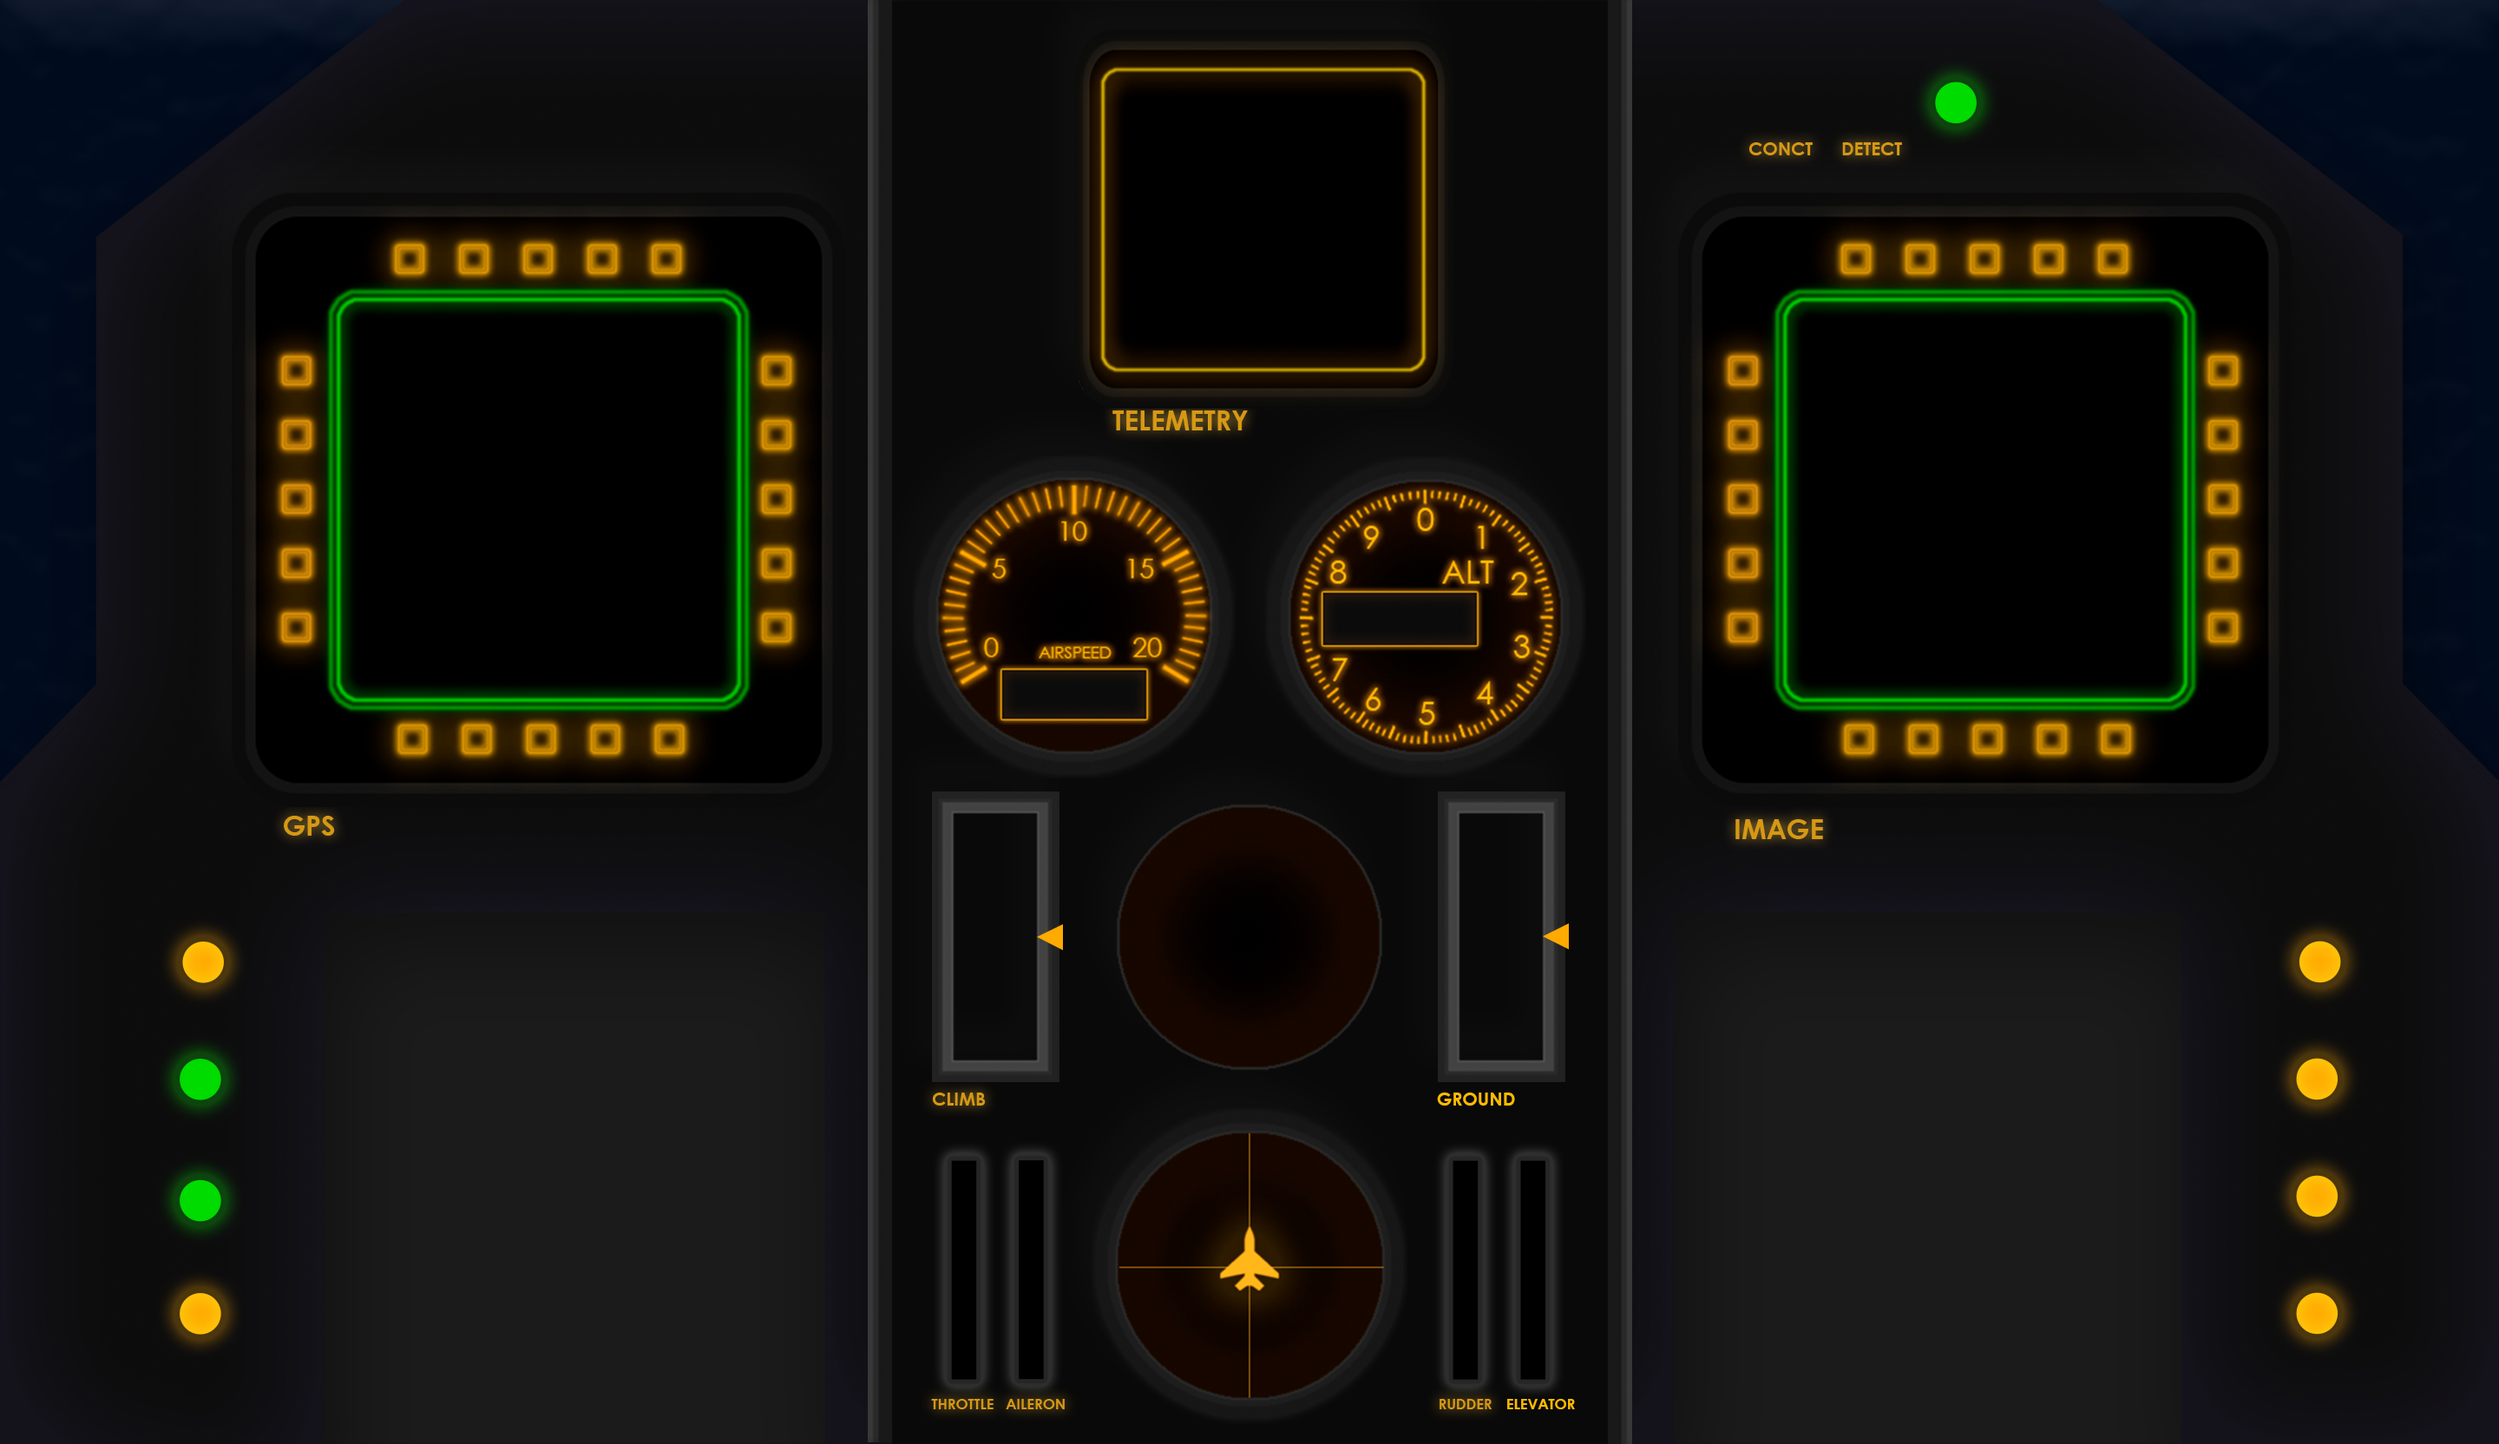
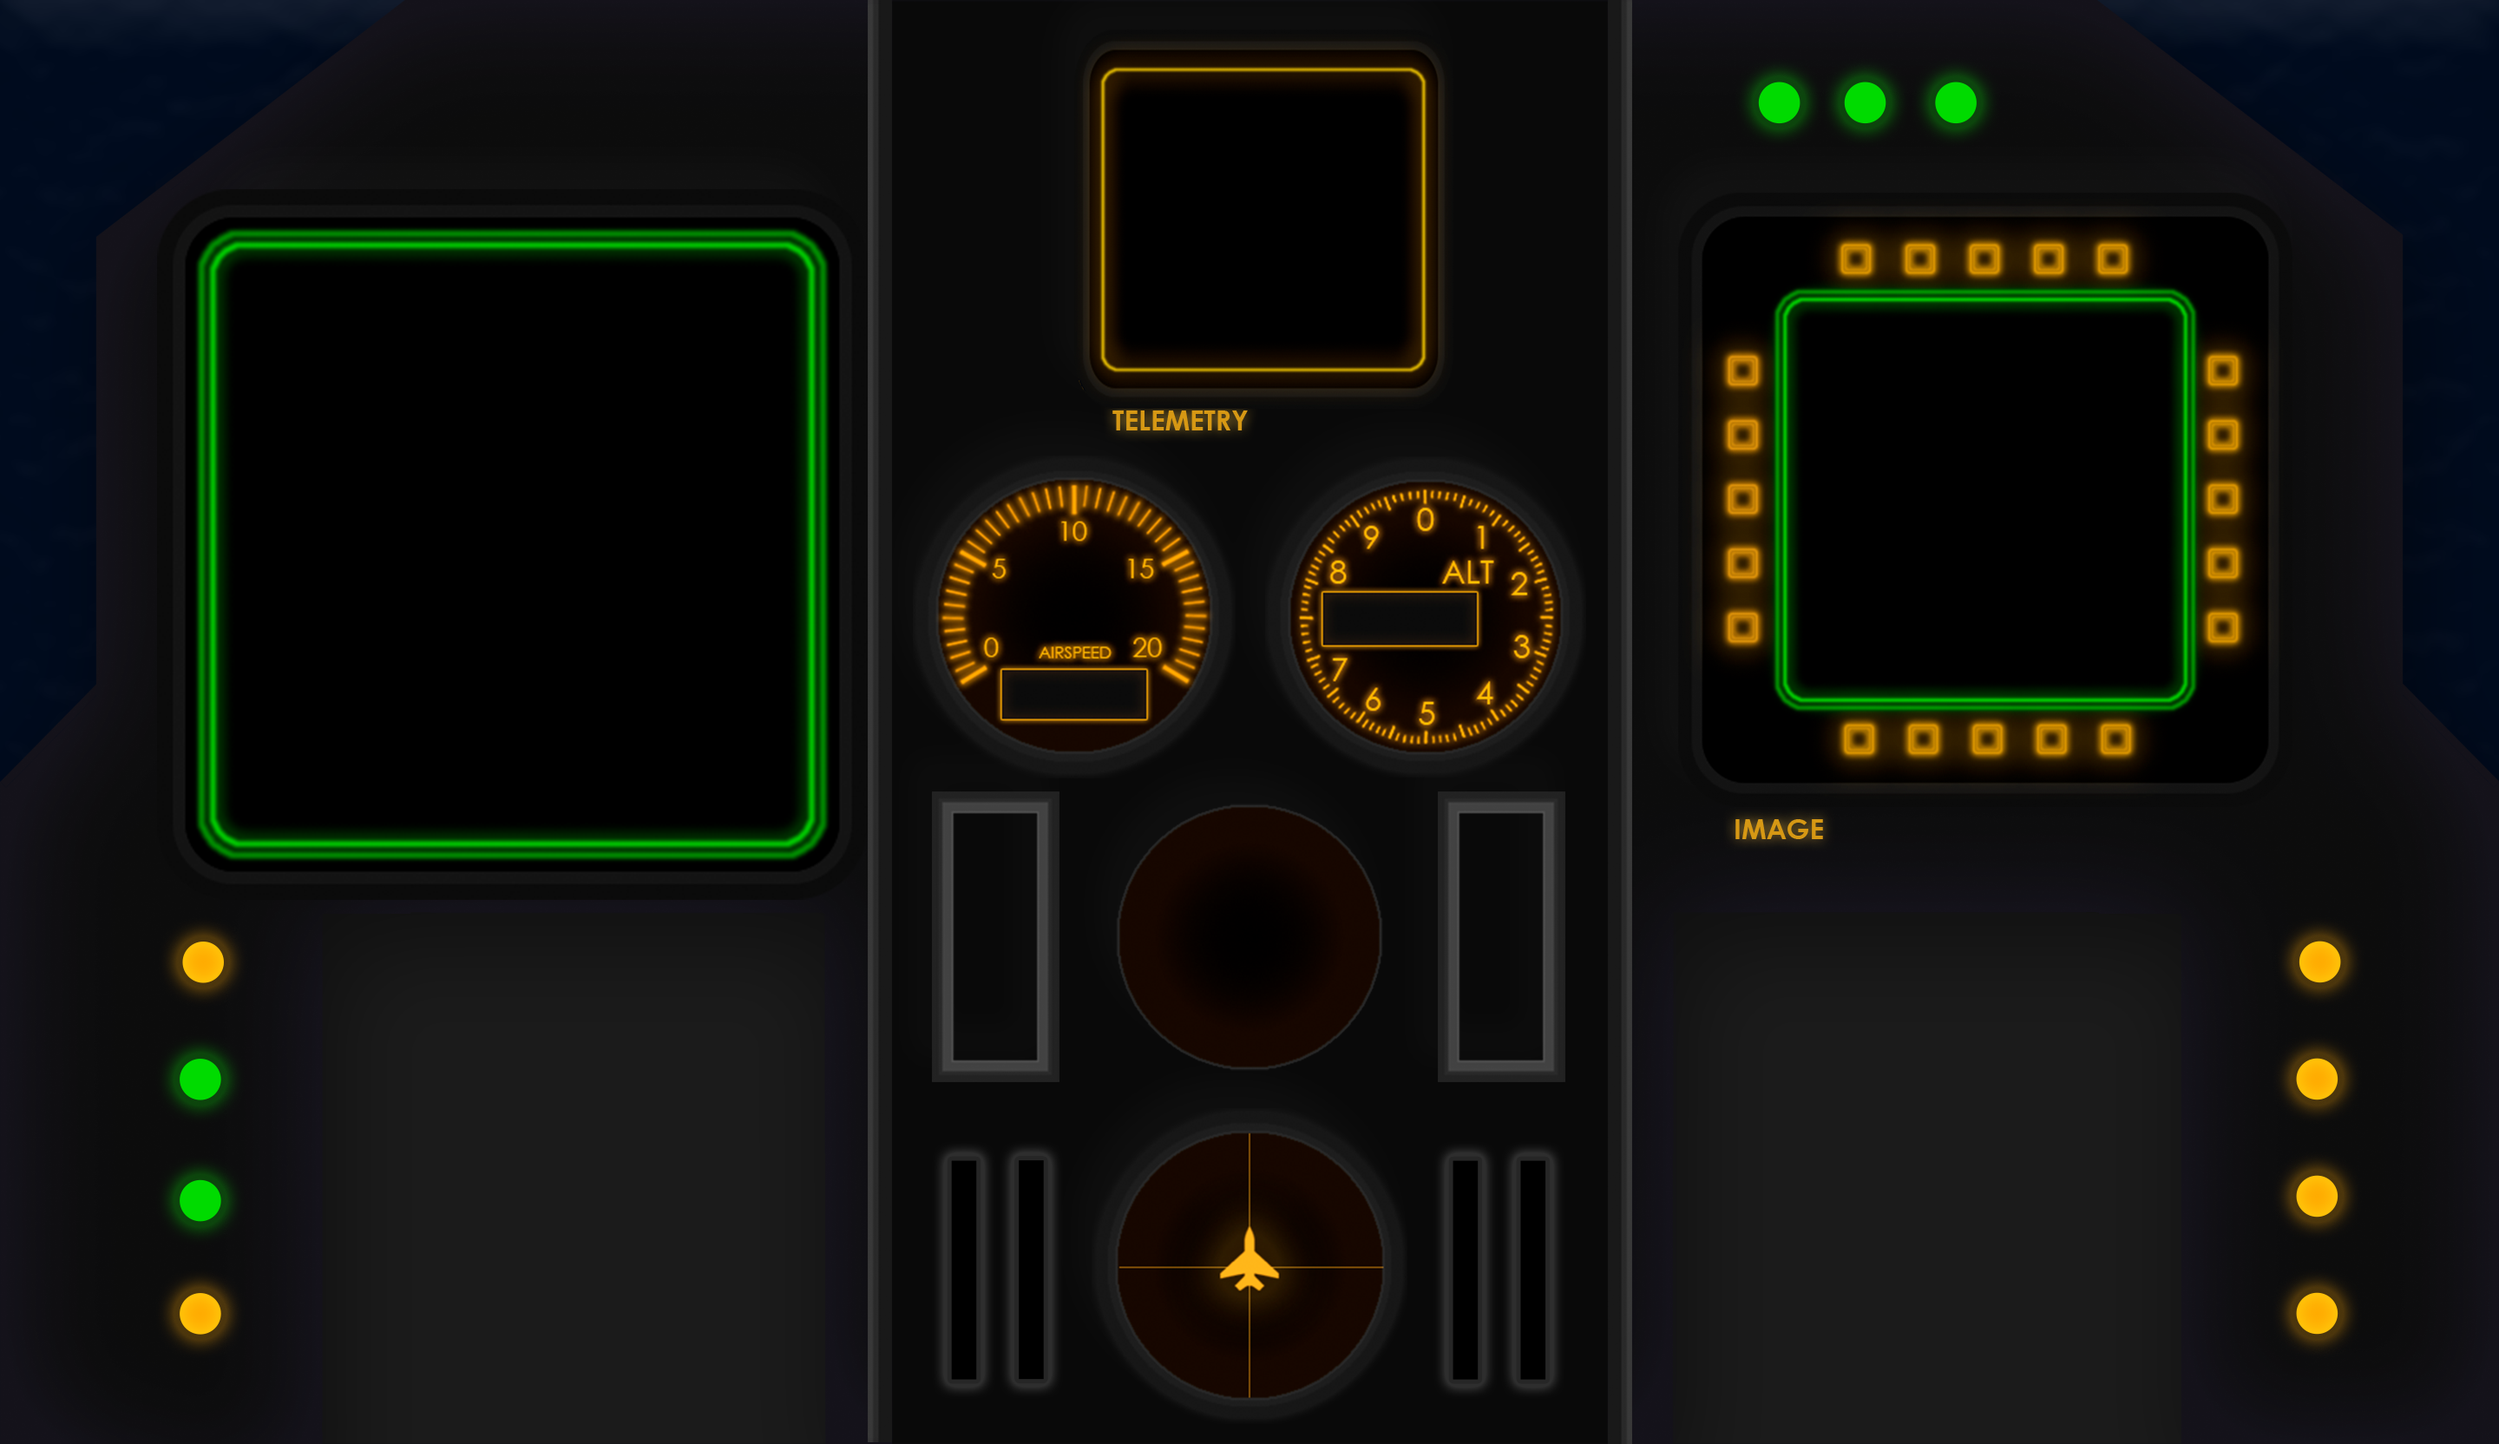
-waypoint view added (UNTESTED)

diff --git a/rpi_code/main.py b/rpi_code/main.py
@@ -137,17 +137,21 @@ def manual_fire():
 
                     # CHECK TO FIRE
                     if detection_count[clss] >= REQUIRED_DETECTION_COUNT:
-                        hud = telemetry_data.get("VFR_HUD")
+                        gps = telemetry_data.get("GLOBAL_POSITION_INT")
                         attd = telemetry_data.get("ATTITUDE")
+                        hud = telemetry_data.get("VFR_HUD")
                         
-                        if (hud and attd):
+                        if (gps and attd and hud):
+
+                            cralt = gps.relative_alt / 1000
+
                             try:
                                 detx, dety = img_det.get_distance((box[1] + box[3]) / 2,
-                                    (box[2] + box[4]) / 2, attd.roll, attd.pitch, hud.alt)
+                                    (box[2] + box[4]) / 2, attd.roll, attd.pitch, cralt)
                             except ValueError:
                                 continue
                                 
-                            c = sim.simulate(np.array((0, 0, hud.alt, 0, hud.airspeed, hud.climb)), MDELAY)
+                            c = sim.simulate(np.array((0, 0, cralt, 0, hud.airspeed, hud.climb)), MDELAY)
                             hx, hy = c[0:2]
 
                             projected_hit = (hx, hy, detx, dety, clss)
@@ -250,9 +254,11 @@ def detect_and_fire():
                             detection_count[clss] += 1
                             last_detect[clss] = -1
 
+                            cralt = gps.relative_alt / 1000
+
                             try:
                                 detx, dety = img_det.get_distance((box[1] + box[3]) / 2,
-                                (box[2] + box[4]) / 2, attd.roll, attd.pitch, hud.alt-804)
+                                (box[2] + box[4]) / 2, attd.roll, attd.pitch, cralt)
                             except ValueError as e:
                                 continue
 
@@ -271,16 +277,20 @@ def detect_and_fire():
                     # CHECK TO FIRE
                     elif (headed[clss]):
                         hud = telemetry_data.get("VFR_HUD")
+                        gps = telemetry_data.get("GLOBAL_POSITION_INT")
                         attd = telemetry_data.get("ATTITUDE")
                     
-                        if (hud and attd):
+                        if (hud and attd and gps):
+                    
+                            cralt = gps.relative_alt / 1000
+
                             try:
                                 detx, dety = img_det.get_distance((box[1] + box[3]) / 2,
-                                    (box[2] + box[4]) / 2, attd.roll, attd.pitch, hud.alt-804)
+                                    (box[2] + box[4]) / 2, attd.roll, attd.pitch, cralt)
                             except ValueError:
                                 continue
                                 
-                            c = sim.simulate(np.array((0, 0, hud.alt-804, 0, hud.airspeed, hud.climb)), MDELAY)
+                            c = sim.simulate(np.array((0, 0, cralt, 0, hud.airspeed, hud.climb)), MDELAY)
                             hx, hy = c[0:2]
 
                             projected_hit = (hx, hy, detx, dety, clss)
@@ -528,12 +538,18 @@ def log():
 
             if (1):
                 attd = telemetry_data.get("ATTITUDE")
-                hud = telemetry_data.get("VFR_HUD")
+                gps = telemetry_data.get("GLOBAL_POSITION_INT")
 
-                if (attd and hud):
-                    detx, dety = img_det.get_distance(320,
-                        240, attd.roll, attd.pitch, hud.alt-804)
-                    loggr.raw_print(f"{detx} {dety} {hud.alt-804}", 1)
+                if (attd and gps):
+                    
+                    cralt = gps.relative_alt / 1000
+
+                    try:
+                        detx, dety = img_det.get_distance(320,
+                            240, attd.roll, attd.pitch, cralt)
+                        loggr.raw_print(f"{detx} {dety}", 1)
+                    except:
+                        pass
 
 
         read_check = [0, 0, 0, 0]
@@ -618,6 +634,12 @@ def mainloop():
                     with firing_lock:
                         p.ChangeDutyCycle(NET_PWM)
                         loggr.print("DE-ACTIVATE", 0)
+
+                elif (blst[0].value == 8):
+                    with firing_lock:
+                        loggr.print("GET WAYPOINTS", 0)
+                        self.pixhawk.mav.mission_request_list_send(
+                            self.pixhawk.target_system, self.pixhawk.target_component)
 
                 blst.pop(0)
 

diff --git a/control_station/gui.py b/control_station/gui.py
@@ -19,7 +19,7 @@ from cscom import MavCom, ImageCom
 os.environ['QT_ENABLE_HIGHDPI_SCALING'] = '0' 
 
 upimg = None
-IP = "172.20.10.4" 
+IP = "192.168.0.102" 
 PORT1 = 14550 
 PORT2 = 14551
 
@@ -63,23 +63,24 @@ class BottomWidget(ImageWidget):
         # |||||||||||||||||||||| GPS ||||||||||||||||||||||
 
         self.gps_comp = MapWidget(self, 0, 0)
-        self.gps_comp.setFactors(0.15, 0.261, 0.2156, 0.3461)
+        #0.4698
+        self.gps_comp.setFactors(0.2327, 0.405, 0.2049, 0.3768)
         self.children.append(self.gps_comp)
 
         self.rot1 = PotentiometerWidget("src/dial.png", self, 0.01, 0.001, 0.0005, self)
-        self.rot1.setFactors(0.03125, 0.054, 0.310764, 0.51)
+        self.rot1.setFactors(0.03125, 0.054, 0.052, 0.55)
         self.children.append(self.rot1)
 
         self.rot2 = PotentiometerWidget("src/dial.png", self, 0.01, 0.001, 0.0005, self)
-        self.rot2.setFactors(0.03125, 0.054, 0.310764, 0.186)
+        self.rot2.setFactors(0.03125, 0.054, 0.052, 0.50)
         self.children.append(self.rot2)
 
         self.rot3 = PotentiometerWidget("src/dial.png", self, 2, 1, 0.003, self)
-        self.rot3.setFactors(0.03125, 0.054, 0.1215, 0.186)
+        self.rot3.setFactors(0.03125, 0.054, 0.052, 0.20)
         self.children.append(self.rot3)
 
         self.rot4 = PotentiometerWidget("src/dial.png", self, 2, 1, 0.003, self)
-        self.rot4.setFactors(0.03125, 0.054, 0.1215, 0.51)
+        self.rot4.setFactors(0.03125, 0.054, 0.052, 0.25)
         self.children.append(self.rot4)
 
         # |||||||||||||||||||||| Sliding Numbers ||||||||||||||||||||||
@@ -189,7 +190,7 @@ class BottomWidget(ImageWidget):
 
         self.bt26 = StyledButton2(self, "GPS", self)
         self.bt26.setFactors(0.026, 0.045, 0.22, 0.075)
-        self.bt26.clicked.connect(lambda : self.gps_comp.setPos(*com.gps_pos))
+        self.bt26.clicked.connect(self.updateGPS)
         self.children.append(self.bt26)
 
         # |||||||||||||||||||||| Telemetry ||||||||||||||||||||||
@@ -313,12 +314,18 @@ class BottomWidget(ImageWidget):
             self.gps_comp.setGridRefLA(self.rot3.counter)
             self.rot3.changed = False
             self.rot3.repaint()
+            repaintGps = True
     
         if self.rot4.changed:
             self.gps_comp.setGridRefLO(self.rot4.counter)
             self.rot4.changed = False
             self.rot4.repaint()
             repaintGps = True
+
+        if (self.gps_comp.waypoints != com.waypoints):
+            self.gps_comp.waypoints = com.waypoints
+            repaintGps = True
+
 
         if (repaintGps):
             self.gps_comp.repaint()
@@ -364,6 +371,11 @@ class BottomWidget(ImageWidget):
             self.prev_vals["img_id"] = id(upimg)
             self.image_comp.repaint()
 
+
+    def updateGPS(self):
+        com.getWaypoints()
+        self.gps_comp.setPos(*com.gps_pos)
+        self.gps_comp.repaint()
 
 
 class MainWindow(QWidget):

diff --git a/control_station/cscom.py b/control_station/cscom.py
@@ -47,6 +47,8 @@ class MavCom:
         self.connected = False
 
         self.boxes = []
+        self.waypoints = []
+        self.current_wp = -1
 
         #self.fp = open("out.txt", "r")
 
@@ -123,12 +125,12 @@ class MavCom:
             self.ground_speed = msg.groundspeed
             self.vertical_speed = msg.climb
             self.heading = msg.heading
-            self.altitude = msg.alt if msg.alt > 0 else 0
             return 1
     
         # GPS Position
         elif msg_type == "GLOBAL_POSITION_INT":
             self.gps_pos = (msg.lat / 1e7, msg.lon / 1e7)
+            self.altitude = (msg.relative_alt / 1000) if msg.relative_alt > 0 else 0
             return 1
     
         # Battery Status
@@ -160,7 +162,22 @@ class MavCom:
                             self.right_stat = (spltted[3] == '1')
                             self.is_det = (spltted[4] == '1')
 
+
             return 1
+
+        elif msg_type == "MISSION_COUNT":
+            self.waypoints = []
+            return 1
+
+        elif msg_type == "MISSION_ITEM":
+            self.waypoints.append((msg.seq, msg.x, msg.y))
+            return 1
+
+        elif msg_type == "MISSION_CURRENT":
+            self.current_wp = msg.seq
+            return 1
+
+        return 0
 
 
     def send_button(self, i):
@@ -217,6 +234,13 @@ class MavCom:
         self.battery_per = 0
     ###########
 
+
+    def getWaypoints(self):
+        self.mav_out.mav.named_value_int_send(
+            int(8*10),
+            b"button_data",
+            8
+        )
 
 
 class ImageCom:

diff --git a/control_station/imgw.py b/control_station/imgw.py
@@ -623,6 +623,9 @@ class MapWidget(QWidget):
         self.posy = 0
         self.imgw = 0
         self.imgh = 0
+
+        self.waypoints = []
+        self.current_wp = -1
         
     def updateLayer(self):
         self.setGeometry(self.posx, self.posy, self.imgw, self.imgh)
@@ -645,7 +648,7 @@ class MapWidget(QWidget):
         self.posx = round(pw * self._offx - self.imgw // 2)
         self.posy = round(ph * self._offy - self.imgh // 2)
 
-        self.scale = self.imgw / 350
+        self.scale = self.imgw / 500
 
     def updatePosition(self, lat, lon):
         self.current_lat = lat
@@ -785,6 +788,17 @@ class MapWidget(QWidget):
         line_height = painter.fontMetrics().height()
         for i, line in enumerate(lines):
             painter.drawText(cur_x + self.scaled(25), cur_y - self.scaled(20) + i * line_height, line)
+
+        for waypoint in self.waypoints:
+            cur_x = int((waypoint[2] - self.center_lon) / deg_per_px_x + center_x)
+            cur_y = int((waypoint[1] - self.current_lat) / deg_per_px_y + center_y)
+    
+            glow_color = QColor(0, 100, 255, 180) if self.current_wp != waypoint[0] else QColor(0, 255, 100, 100)
+            line_height = painter.fontMetrics().height()
+
+            painter.setBrush(glow_color)
+            painter.setPen(Qt.PenStyle.NoPen)
+            painter.drawEllipse(cur_x - self.scaled(5), cur_y - self.scaled(5), self.scaled(10), self.scaled(10))
 
         painter.end()
 
